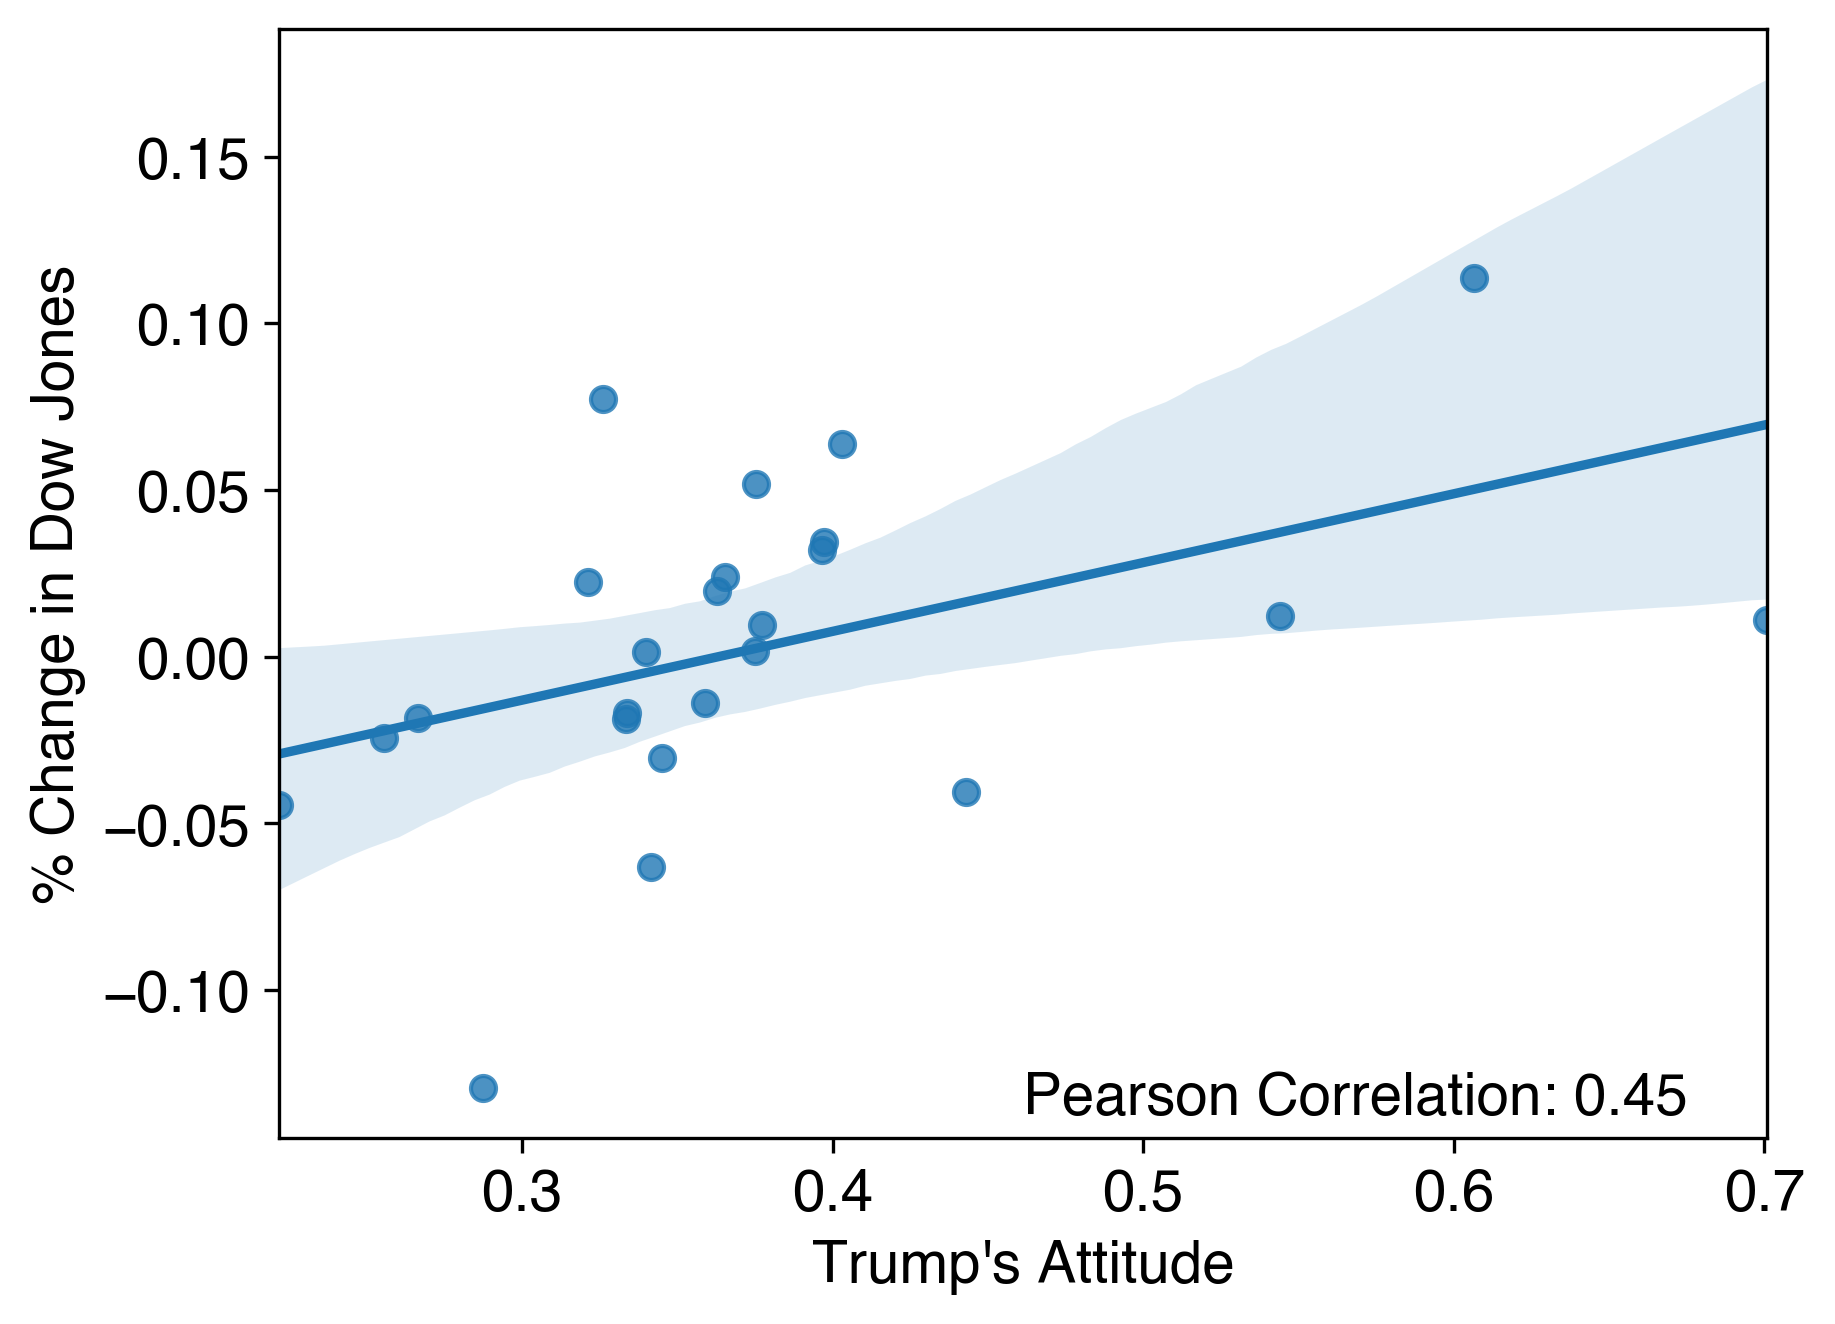
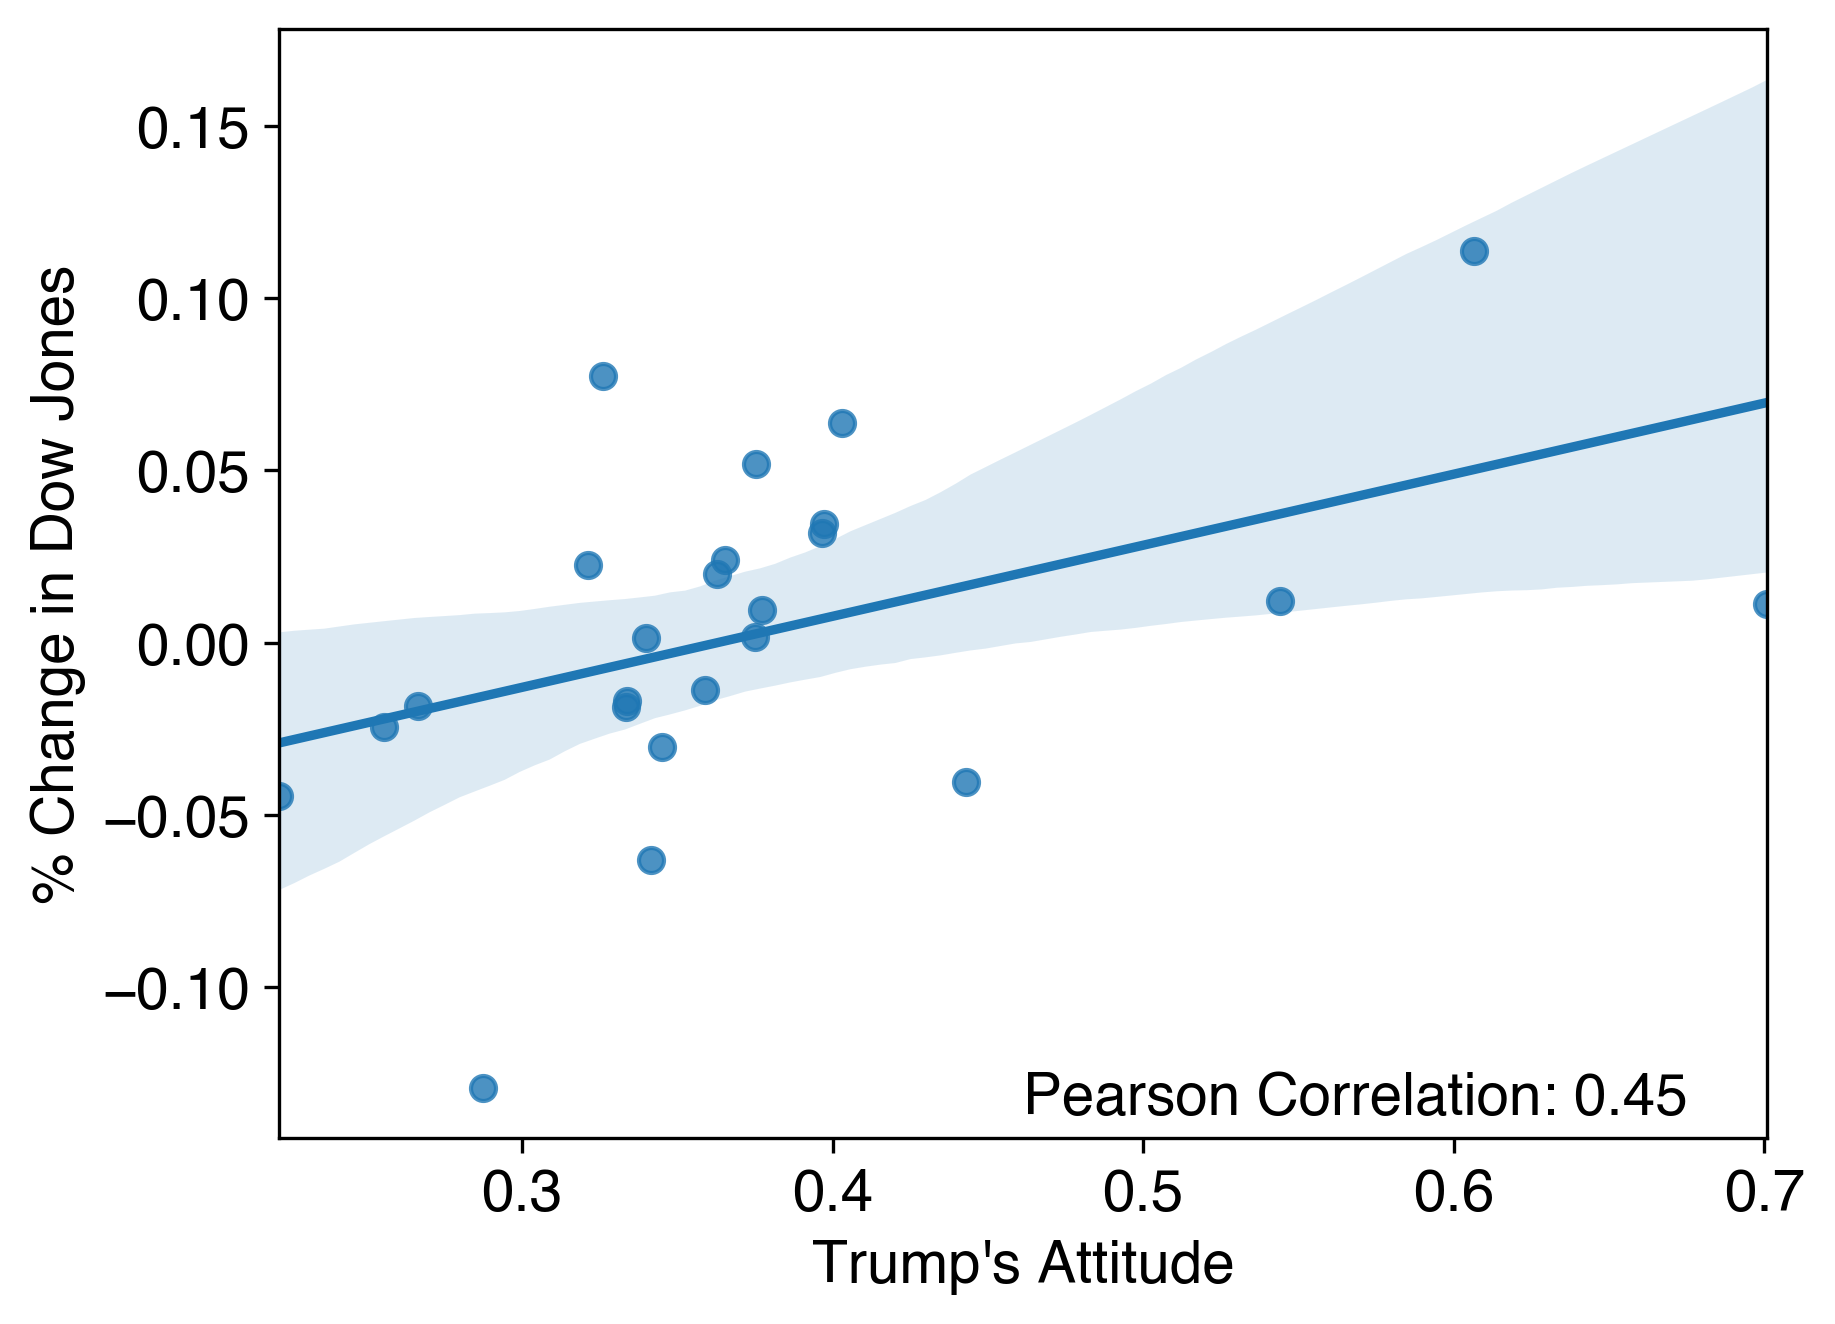
add clarifying statement for correlation

diff --git a/briefings/src/models/nmf/nmf.py b/briefings/src/models/nmf/nmf.py
@@ -8,11 +8,11 @@ from sklearn.decomposition import NMF
 sns.set_color_codes()
 
 # I found that 6 topics makes the most sense
-num_topics = 6
+num_topics = 8 
 
 # Load data and make each document a day's briefing 
 df = pd.read_csv('../../../data/processed/trump_wh_remarks.csv')
-#print(df)
+print(df.describe())
 remarks = [i for i in list(df['clean_text'].values)]
 full_remarks = [i for i in list(df['text'].values)]
 
@@ -33,8 +33,9 @@ tfidf_vectorizer = TfidfVectorizer(max_df=0.01, min_df=5)
 tfidf = tfidf_vectorizer.fit_transform(remarks)
 
 print("NMF topics")
-nmf = NMF(n_components=num_topics, random_state=1,
-          alpha=.1, l1_ratio=.5).fit(tfidf)
+nmf = NMF(n_components=num_topics, random_state=1,beta_loss='kullback-leibler',
+          solver='mu',alpha=.1, l1_ratio=.5).fit(tfidf)
+          #alpha=.1).fit(tfidf)
 tfidf_feature_names = tfidf_vectorizer.get_feature_names()
 print_top_words(nmf, tfidf_feature_names, 10)
 
@@ -52,7 +53,7 @@ nmf_W = nmf.transform(tfidf)
 nmf_H = nmf.components_
 
 print(nmf_W.shape)
-#print(nmf_H.shape)
+print(nmf_H.shape)
 #print(tfidf.shape)
 
 # Get percent topics
@@ -64,9 +65,19 @@ for i in range(nmf_W.shape[0]):
     #    print(nmf_W[i,:])
         topics.append(np.argmax(nmf_W[i,:]))
 
+total_percent = 0.0
 for i in range(num_topics):
+    total_percent += topics.count(i)/nmf_W.shape[0]*100
     print(i+1, topics.count(i)/len(topics)*100, topics.count(i)/nmf_W.shape[0]*100)
 
+print(total_percent)
+
+#topics = pd.DataFrame(nmf_W).idxmax(axis=0, skipna=True)
+#for i in range(100):
+#    print(np.argmax(nmf_W[i,:]),np.max(nmf_W[i,:]))
+
+#plt.bar(x=topics.index, height=topics.mul(100)/topics.sum())
+#plt.show()
 
 #no_top_words = 10
 #no_top_remarks = 10

diff --git a/briefings/src/models/vader/correlation.py b/briefings/src/models/vader/correlation.py
@@ -33,7 +33,10 @@ data['sentiment'] = sentiment
 data = data.groupby(['date']).mean()
 data.index = pd.to_datetime(data.index)
 data.index.name = 'Date'
+
+# since stocks does not include weekends, we will not have any correlation if Trump gives a briefing on a weekend or holiday
 merge=pd.merge(data,stocks, how='inner', left_index=True, right_index=True)
+
 
 fog,ax = plt.subplots()
 R = np.corrcoef(merge['sentiment'].values.astype(float),merge['pct_chg'].astype(float))[1,0]

diff --git a/README.md b/README.md
@@ -171,7 +171,7 @@ To investigate, I plotted Trump's sentiment versus the percent change in the clo
 <img alt="" src="/briefings/src/models/vader/sentiment_vs_djia.png" width="800" />
 </p>
 
-We can actually make the correlation between stock market and Trump's mood a bit tighter. Below we have a regression plot, and find that the Pearson correlation is around +0.45. This is good enough to say that there is likely a moderate positive correlation between Trump's sentiment and the market performance. Makes sense, as he prides himself on his business acumen and being able to keep the American economy strong. (No comment if that corresponds to reality.)
+We can actually make the correlation between stock market and Trump's mood a bit tighter. Below we have a regression plot, and find that the Pearson correlation is around +0.45. Note that we don't include the cases where Trump gives a briefing on a weekend or holiday! (Which shouldn't be correlated.) This is good enough to say that there is likely a moderate positive correlation between Trump's sentiment and the market performance. Makes sense, as he prides himself on his business acumen and being able to keep the American economy strong. (No comment if that corresponds to reality.)
 
 <p align="center">
 <img alt="" src="/briefings/src/models/vader/sentiment_vs_djia_correlation.png" width="800" />
